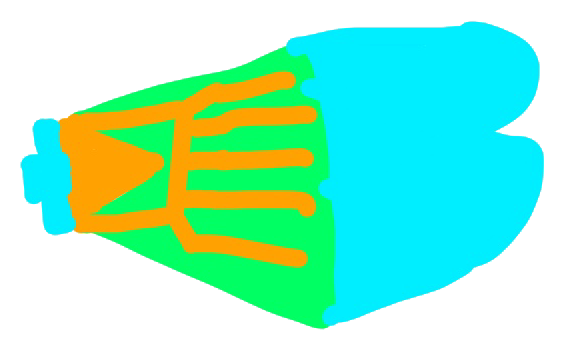
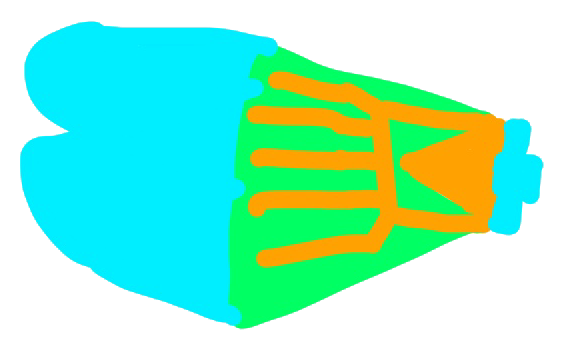
Flip Harlie's drawn ship so the nose leads.

diff --git a/sw.js b/sw.js
@@ -1,4 +1,4 @@
-const CACHE = "harlie-space-v124";
+const CACHE = "harlie-space-v125";
 const ASSETS = [
     "./",
     "./index.html",
